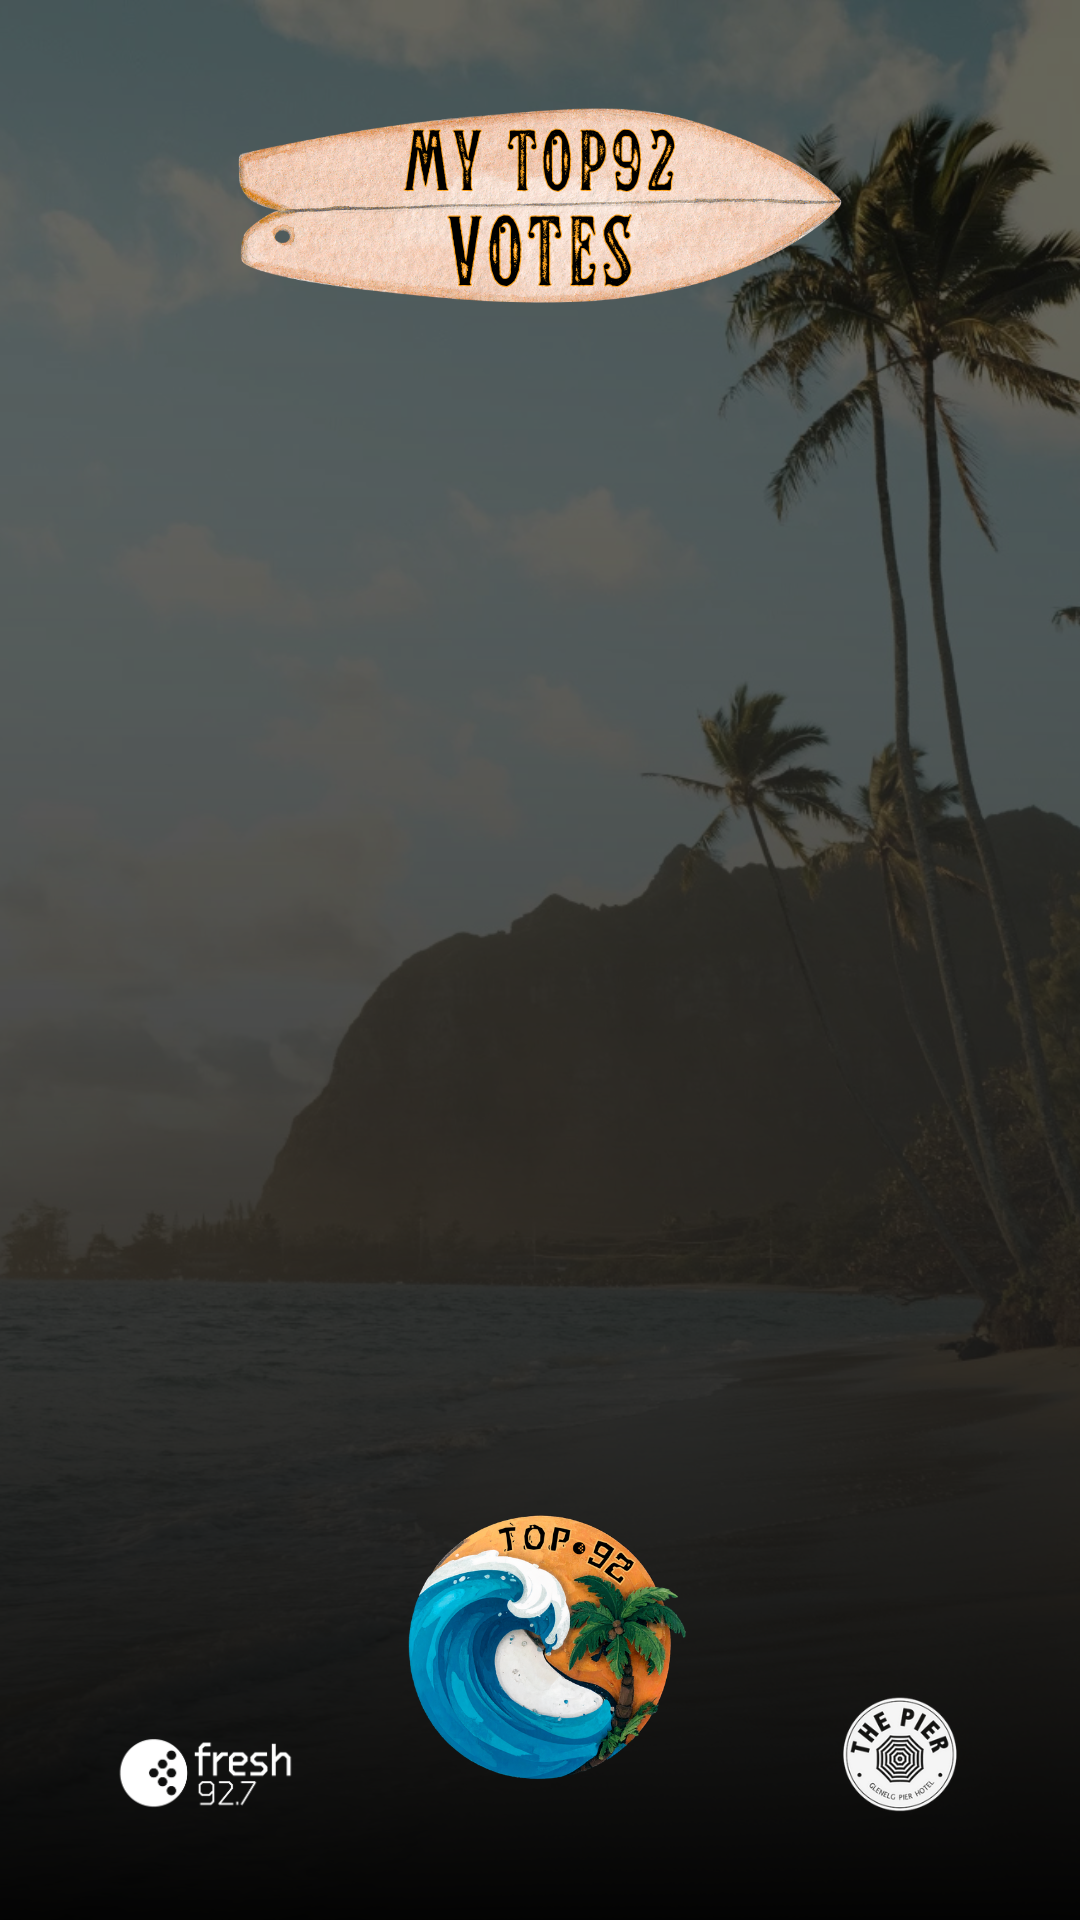
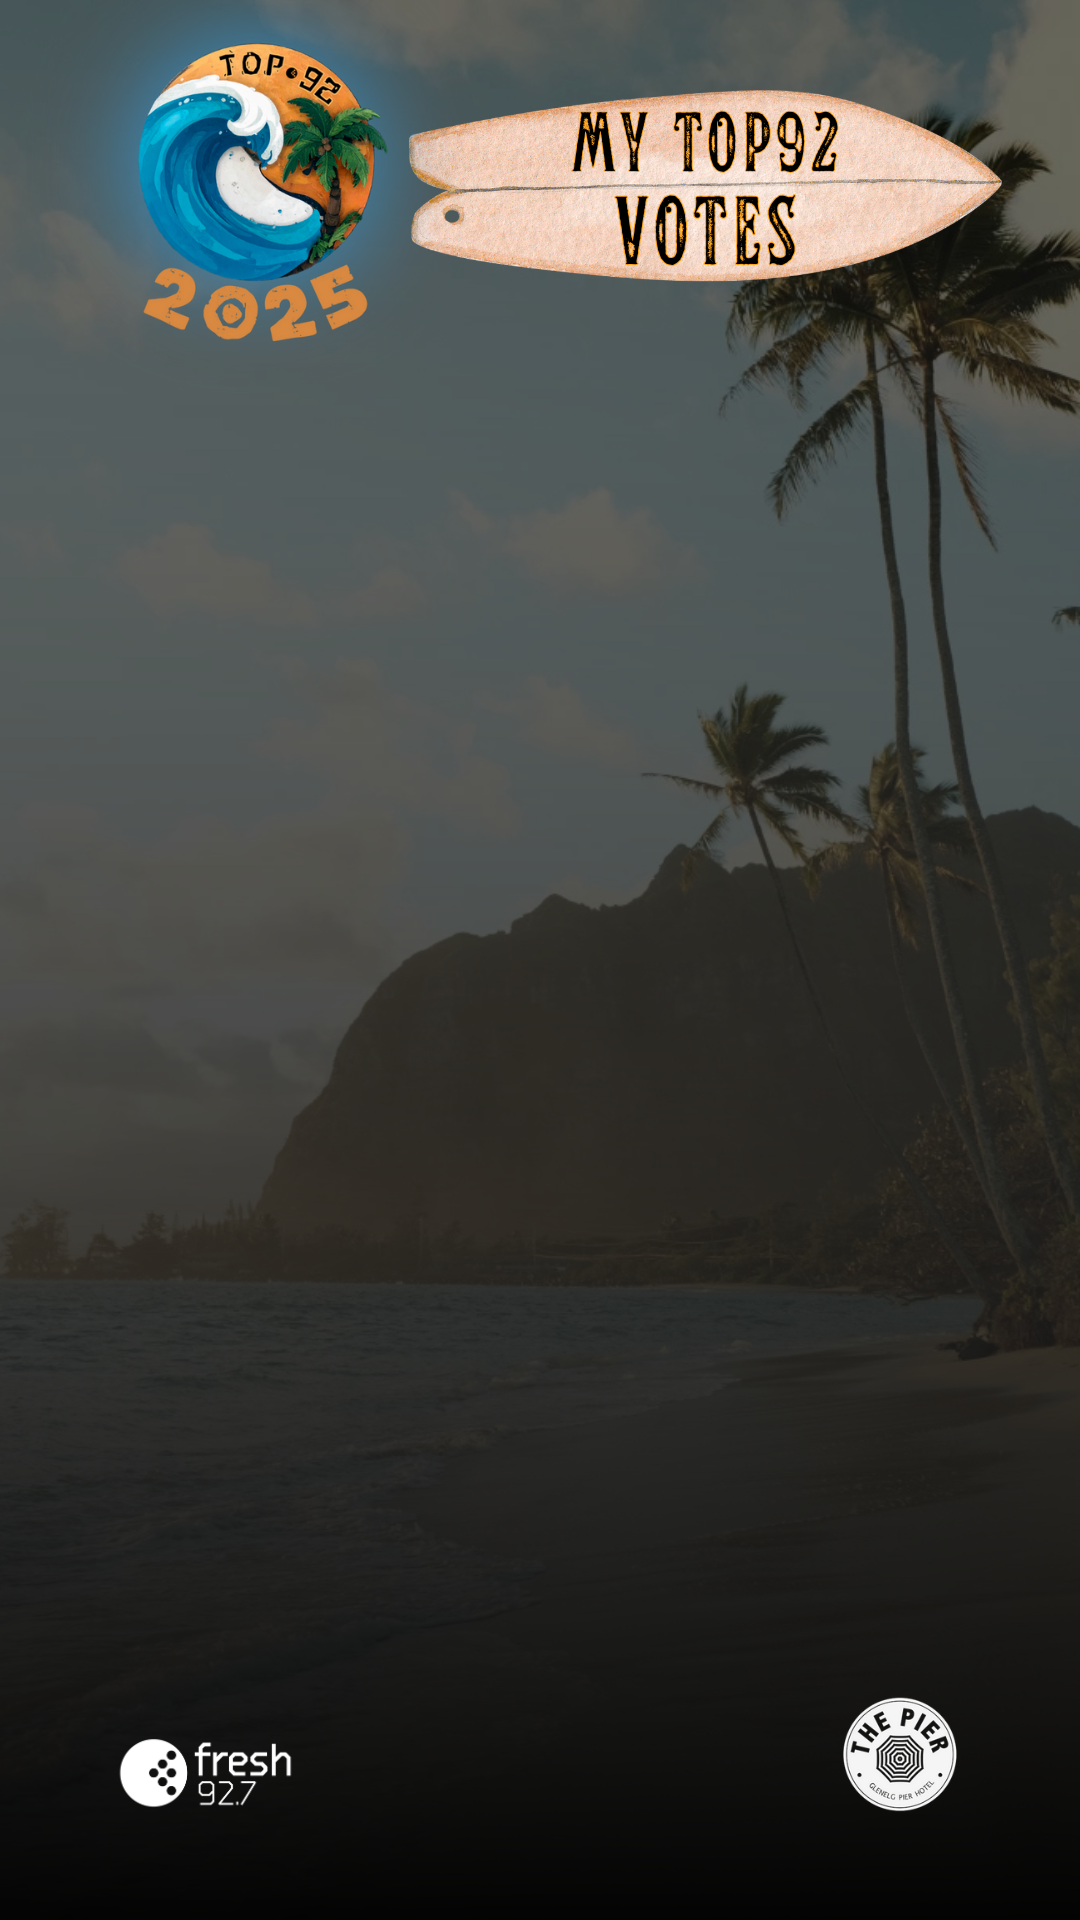
sharecard formatting

Changed region(s): [[0.0917, 0.0, 0.9167, 0.1875], [0.3667, 0.7812, 0.6417, 0.9375]]

diff --git a/index.html b/index.html
@@ -541,16 +541,18 @@
       height:1920px;
       background:url('Top 92 My 10 Favourites.jpeg') center/cover no-repeat;
       color:#fff;
-      padding:400px 160px 260px;
       position:absolute;
-      display:none;
-      flex-direction:column;
-      justify-content:center;
-      align-items:center;
-      text-align:center;
-      gap:24px;
       left:0;
       top:0;
+      display:none;
+      flex-direction:column;
+      align-items:center;
+      justify-content:flex-start;
+      text-align:center;
+      gap:24px;
+      /* Keep all copy safely between the two red bars */
+      padding:440px 160px 320px;
+      box-sizing:border-box;
     }
 
     #shareCard ol{
@@ -558,20 +560,32 @@
       margin:0;
       padding:0;
       width:100%;
-      max-width:720px;
-      font-size:42px;
-      line-height:1.38;
-      font-weight:600;
-      letter-spacing:.2px;
-      text-shadow:0 4px 14px rgba(0,0,0,.55);
+      max-width:760px;
+      display:flex;
+      flex-direction:column;
+      align-items:center;
+      gap:18px;
     }
 
     #shareCard ol li{
-      margin:0 0 28px;
+      margin:0;
     }
 
-    #shareCard ol li:last-child{
-      margin-bottom:0;
+    #shareCard .share-song{
+      font-family:'Russo One','Exo 2',system-ui,sans-serif;
+      font-weight:700;
+      font-size:clamp(34px, 3.8vw, 42px);
+      line-height:1.18;
+      text-shadow:0 4px 14px rgba(0,0,0,.55);
+    }
+
+    #shareCard .share-artist{
+      font-family:'Exo 2',system-ui,sans-serif;
+      font-weight:400;
+      font-size:clamp(22px, 2.6vw, 30px);
+      line-height:1.18;
+      margin-top:4px;
+      text-shadow:0 4px 14px rgba(0,0,0,.55);
     }
 
     #status{
@@ -1106,11 +1120,25 @@
 
       const shareList = document.getElementById('shareList');
       shareList.innerHTML = '';
-      const picksArr = Array.from(selected.values())
-        .map(s => `${s.title} — ${s.artist}`);
-      picksArr.forEach(text => {
+
+      const picksArr = Array.from(selected.values());
+
+      picksArr.forEach(song => {
         const li = document.createElement('li');
-        li.textContent = text;
+
+        const titleEl = document.createElement('div');
+        titleEl.className = 'share-song';
+        titleEl.textContent = song.title || '';
+
+        const artistEl = document.createElement('div');
+        artistEl.className = 'share-artist';
+        artistEl.textContent = song.artist || '';
+
+        li.appendChild(titleEl);
+        if (artistEl.textContent){
+          li.appendChild(artistEl);
+        }
+
         shareList.appendChild(li);
       });
 
@@ -1131,13 +1159,16 @@
         card.style.display = 'none';
       }
 
+      // To keep picks_json as before (array of "title — artist" strings)
+      const picks_json = picksArr.map(s => `${s.title} — ${s.artist}`);
+
       if (POWER_AUTOMATE_URL){
         try{
           const payload = {
             name: nameEl.value.trim(),
             mobile: mobileEl.value.trim(),
             email: emailEl.value.trim(),
-            picks_json: picksArr,
+            picks_json: picks_json,
             imageDataUrl: dataURL,
             ua: navigator.userAgent
           };
